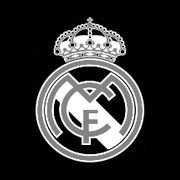
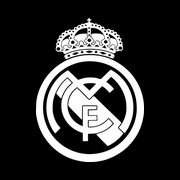
escudo

Changed region(s): [[0.1944, 0.0833, 0.8056, 0.9167]]

diff --git a/web/src/marca/escudo-blanco.css b/web/src/marca/escudo-blanco.css
@@ -1,0 +1,2 @@
+/* Escudo blanco de la barra lateral, incrustado (el CSS de Framework no puede cargar PNG sueltos) */
[1 lines of base64/hex data omitted]
